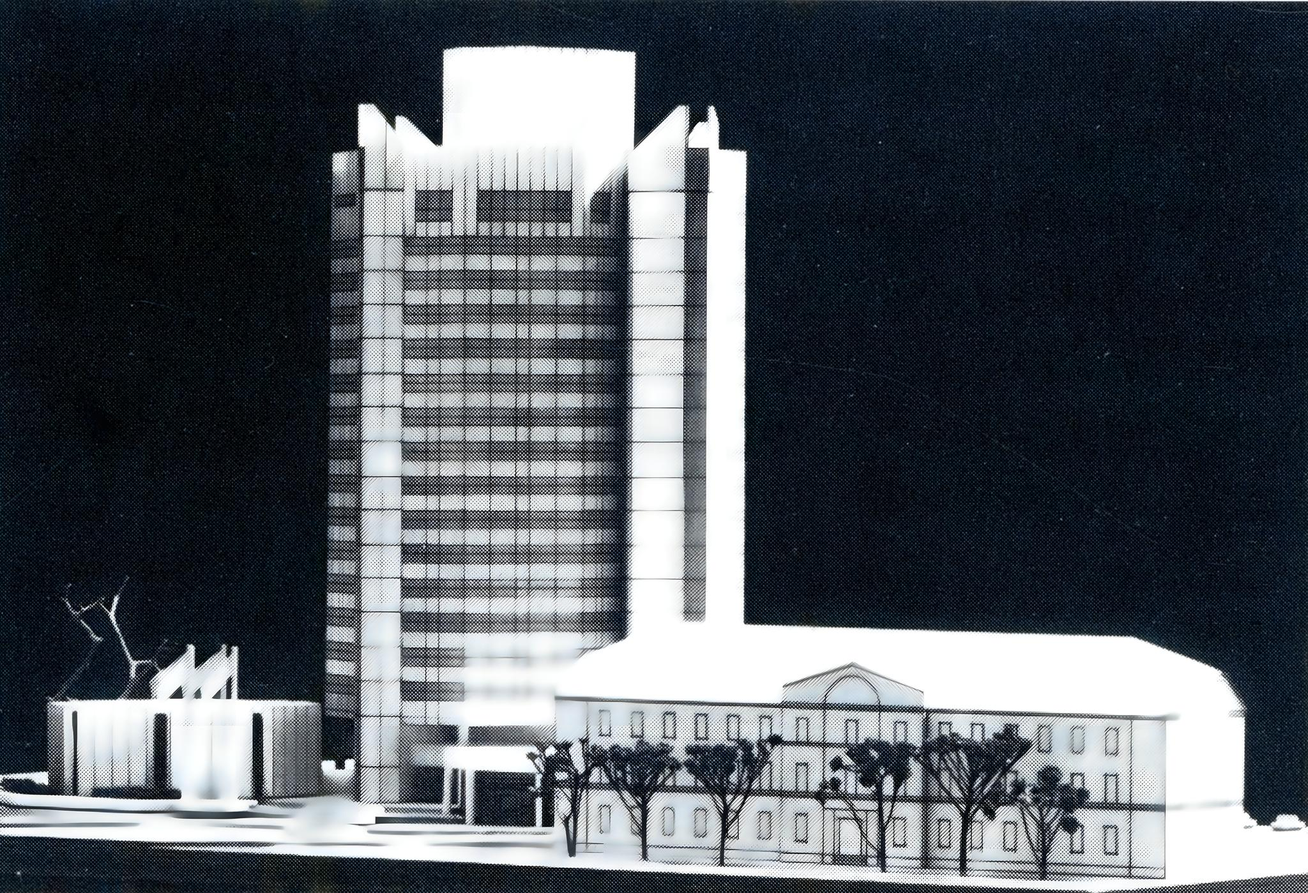
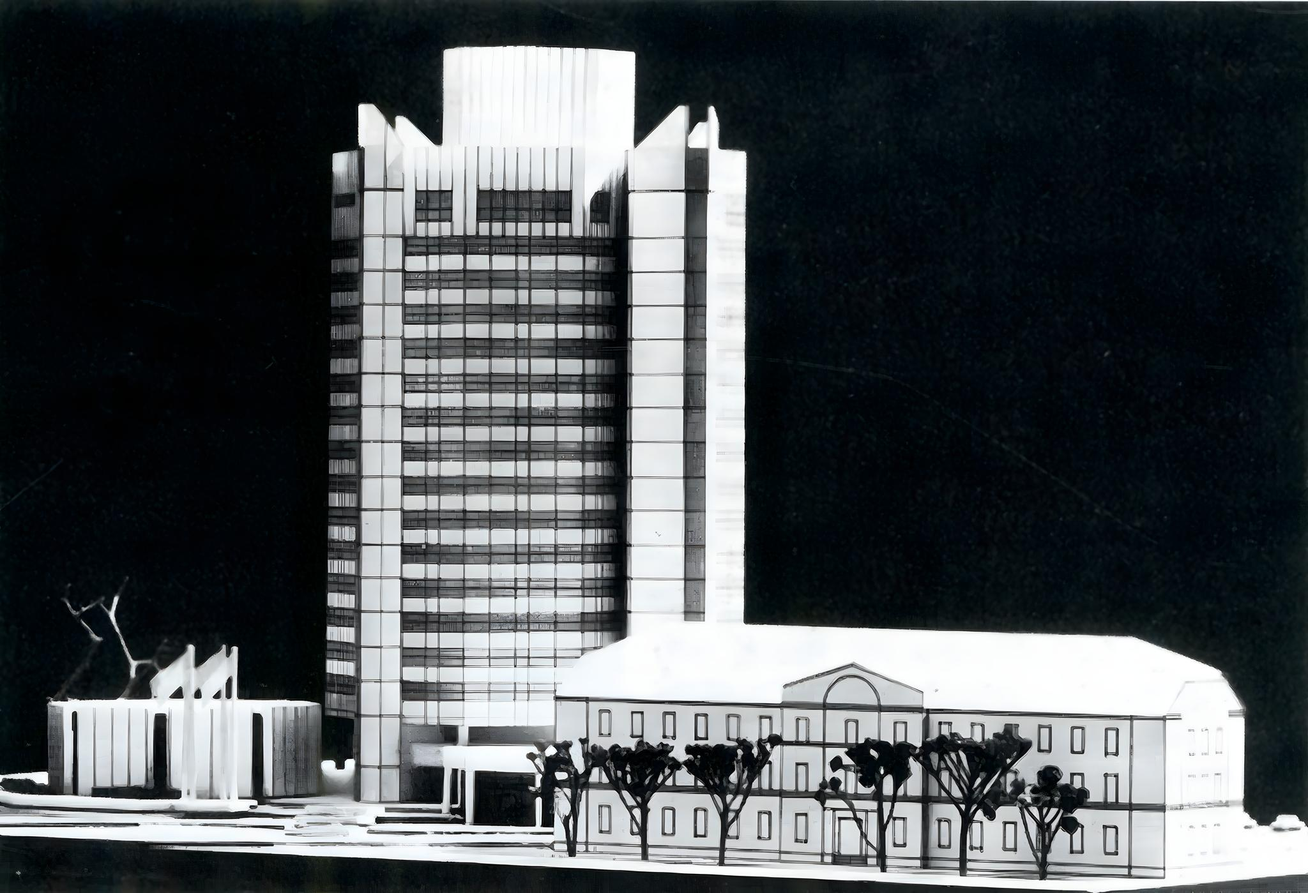
Prepare more tags

Changed region(s): [[0.0, 0.0, 1.0, 1.0]]

diff --git a/layouts/partials/term-list.html b/layouts/partials/term-list.html
@@ -1,11 +1,46 @@
 <div class="list">
+  {{- $params := .Page.Params -}}
   {{- $tag := i18n .Data.Term -}}
   {{- if eq $tag "" -}}
     {{- $tag = .Data.Term -}}
   {{- end -}}
+  {{- if eq $tag "" -}}
+    {{- $tag = . -}}
+  {{- end -}}
+  {{- $prefix := i18n "Tag" -}}
+  {{- $type := "" -}}
+  {{- with $params.type -}}
+    {{- if ne (i18n .) "" -}}
+      {{- $prefix = i18n . -}}
+      {{- $type = . -}}
+      {{- $tag = $.Title -}}
+    {{- end -}}
+  {{- end -}}
+  {{- $heading := printf "%s: %s" $prefix $tag -}}
   <div class="section-head">
-    <h1 class="post-section section-head-title tag-list-title post-title">{{ i18n "Tag" }}: {{ $tag }}</h1>
+    <h1 class="post-section section-head-title tag-list-title post-title">{{ $heading }}</h1>
   </div>
+
+  {{- if ne $type "" -}}
+    <div class="term-meta-container {{ $type }}">
+      <h2 class="term-meta-heading">{{ i18n "moreInformationAbout" }} {{ $tag }}</h2>
+      <ul class="term-meta-list {{ $type }}">
+        {{- if isset $params "wikipedia" -}}
+          <li class="wikipedia-link"><a href="{{ $params.wikipedia }}" title="{{ i18n "wikipedia" }} {{ i18n "entry" }}">{{ i18n "wikipedia" }} {{ i18n "entry" }}</a></li>
+        {{- end -}}
+        {{- if isset $params "gnd" -}}
+          <li class="gnd-link"><a href="https://d-nb.info/gnd/{{ $params.gnd }}" title="{{ i18n "gnd" }} {{ i18n "entry" }}">{{ i18n "gnd" }} {{ i18n "entry" }}</a></li>
+        {{- end -}}
+        {{- if isset $params "wikidata" -}}
+          <li class="wikidatae-link"><a href="https://www.wikidata.org/wiki/Special:EntityPage/{{ $params.wikidata }}" title="{{ i18n "wikidata" }} {{ i18n "entry" }}">{{ i18n "wikidata" }} {{ i18n "entry" }}</a></li>
+        {{- end -}}
+        {{- if isset $params "archinform" -}}
+          <li class="archinform-link"><a href="https://deu.archinform.net/{{ $params.archinform }}.htm" title="{{ i18n "archinform" }} {{ i18n "entry" }}">{{ i18n "archinform" }} {{ i18n "entry" }}</a></li>
+        {{- end -}}
+      </ul>
+    </div>
+  {{- end -}}
+
   {{- if ne $.Page.File nil -}}
     {{- if ne $.Content "" -}}
       <div class="tag-list-content">

diff --git a/assets/scss/term.scss b/assets/scss/term.scss
@@ -35,3 +35,35 @@
     }
   }
 }
+
+.term-meta-container {
+  padding: 1rem;
+  margin-top: 1.6rem;
+  background-color: rgba(255, 255, 255, 0.3);
+  margin-bottom: 2rem;
+  flex-basis: 100%;
+
+  @media (min-width: 768px) {
+    flex-basis: 50%;
+    max-width: 60%;
+  }
+
+  .term-meta-heading {
+    margin-block-start: calc(0.83em - 1rem);
+  }
+
+  .term-meta-list {
+    margin-block-start: unset;
+    margin-block-end: unset;
+    padding-inline-start: unset;
+
+    @media (min-width: 768px) {
+      width: calc(100% - 1rem);
+      margin-left: 1rem;
+      list-style-type: none;
+      display: grid;
+      grid-template-columns: auto auto;
+    }
+  }
+
+}

diff --git a/content/tags/friedrich-spengelin/_index.md b/content/tags/friedrich-spengelin/_index.md
@@ -1,0 +1,11 @@
+---
+title: 'Friedrich Spengelin'
+description: ''
+draft: true
+params:
+  archinform: arch/228
+  type: person
+  wikipedia: https://de.wikipedia.org/wiki/Friedrich_Spengelin
+  gnd: 115512411
+  wikidata: Q1287956
+---

diff --git a/content/tags/lucy-hillebrand/_index.md b/content/tags/lucy-hillebrand/_index.md
@@ -1,0 +1,11 @@
+---
+title: 'Lucy Hillebrand'
+description: ''
+draft: true
+params:
+  archinform: arch/2177
+  type: person
+  wikipedia: https://de.wikipedia.org/wiki/Lucy_Hillebrand
+  gnd: 118952889
+  wikidata: Q112007
+---

diff --git a/content/tags/jochen-brandi/_index.md b/content/tags/jochen-brandi/_index.md
@@ -1,0 +1,11 @@
+---
+title: 'Jochen Brandi'
+description: ''
+draft: true
+params:
+  archinform: arch/2012
+  type: person
+  wikipedia: https://de.wikipedia.org/wiki/Jochen_Brandi
+  gnd: 123301335
+  wikidata: Q106097121
+---

diff --git a/content/tags/dietz-brandi/_index.md b/content/tags/dietz-brandi/_index.md
@@ -1,0 +1,11 @@
+---
+title: 'Dietz Brandi'
+description: ''
+draft: true
+params:
+  archinform: arch/63101
+  wikipedia: https://de.wikipedia.org/wiki/Diez_Brandi
+  gnd: 116402202
+  wikidata: Q1224312
+  type: person
+---

diff --git a/content/post/staedte-forum-1977/rathaus/index.md b/content/post/staedte-forum-1977/rathaus/index.md
@@ -9,7 +9,7 @@ outputs:
   - html
 params:
   iiifContext: http://iiif.io/api/image/2/context.json
-  cover: model-planned.jpg
+  cover: model.jpg
   geojson:
     coordinates:
     - 9.9326044

diff --git a/content/tags/gerd-fesel/_index.md b/content/tags/gerd-fesel/_index.md
@@ -1,0 +1,9 @@
+---
+title: 'Gerd Fesel'
+description: ''
+draft: true
+params:
+  archinform: arch/20768
+  type: person
+  gnd: 123984475
+---
